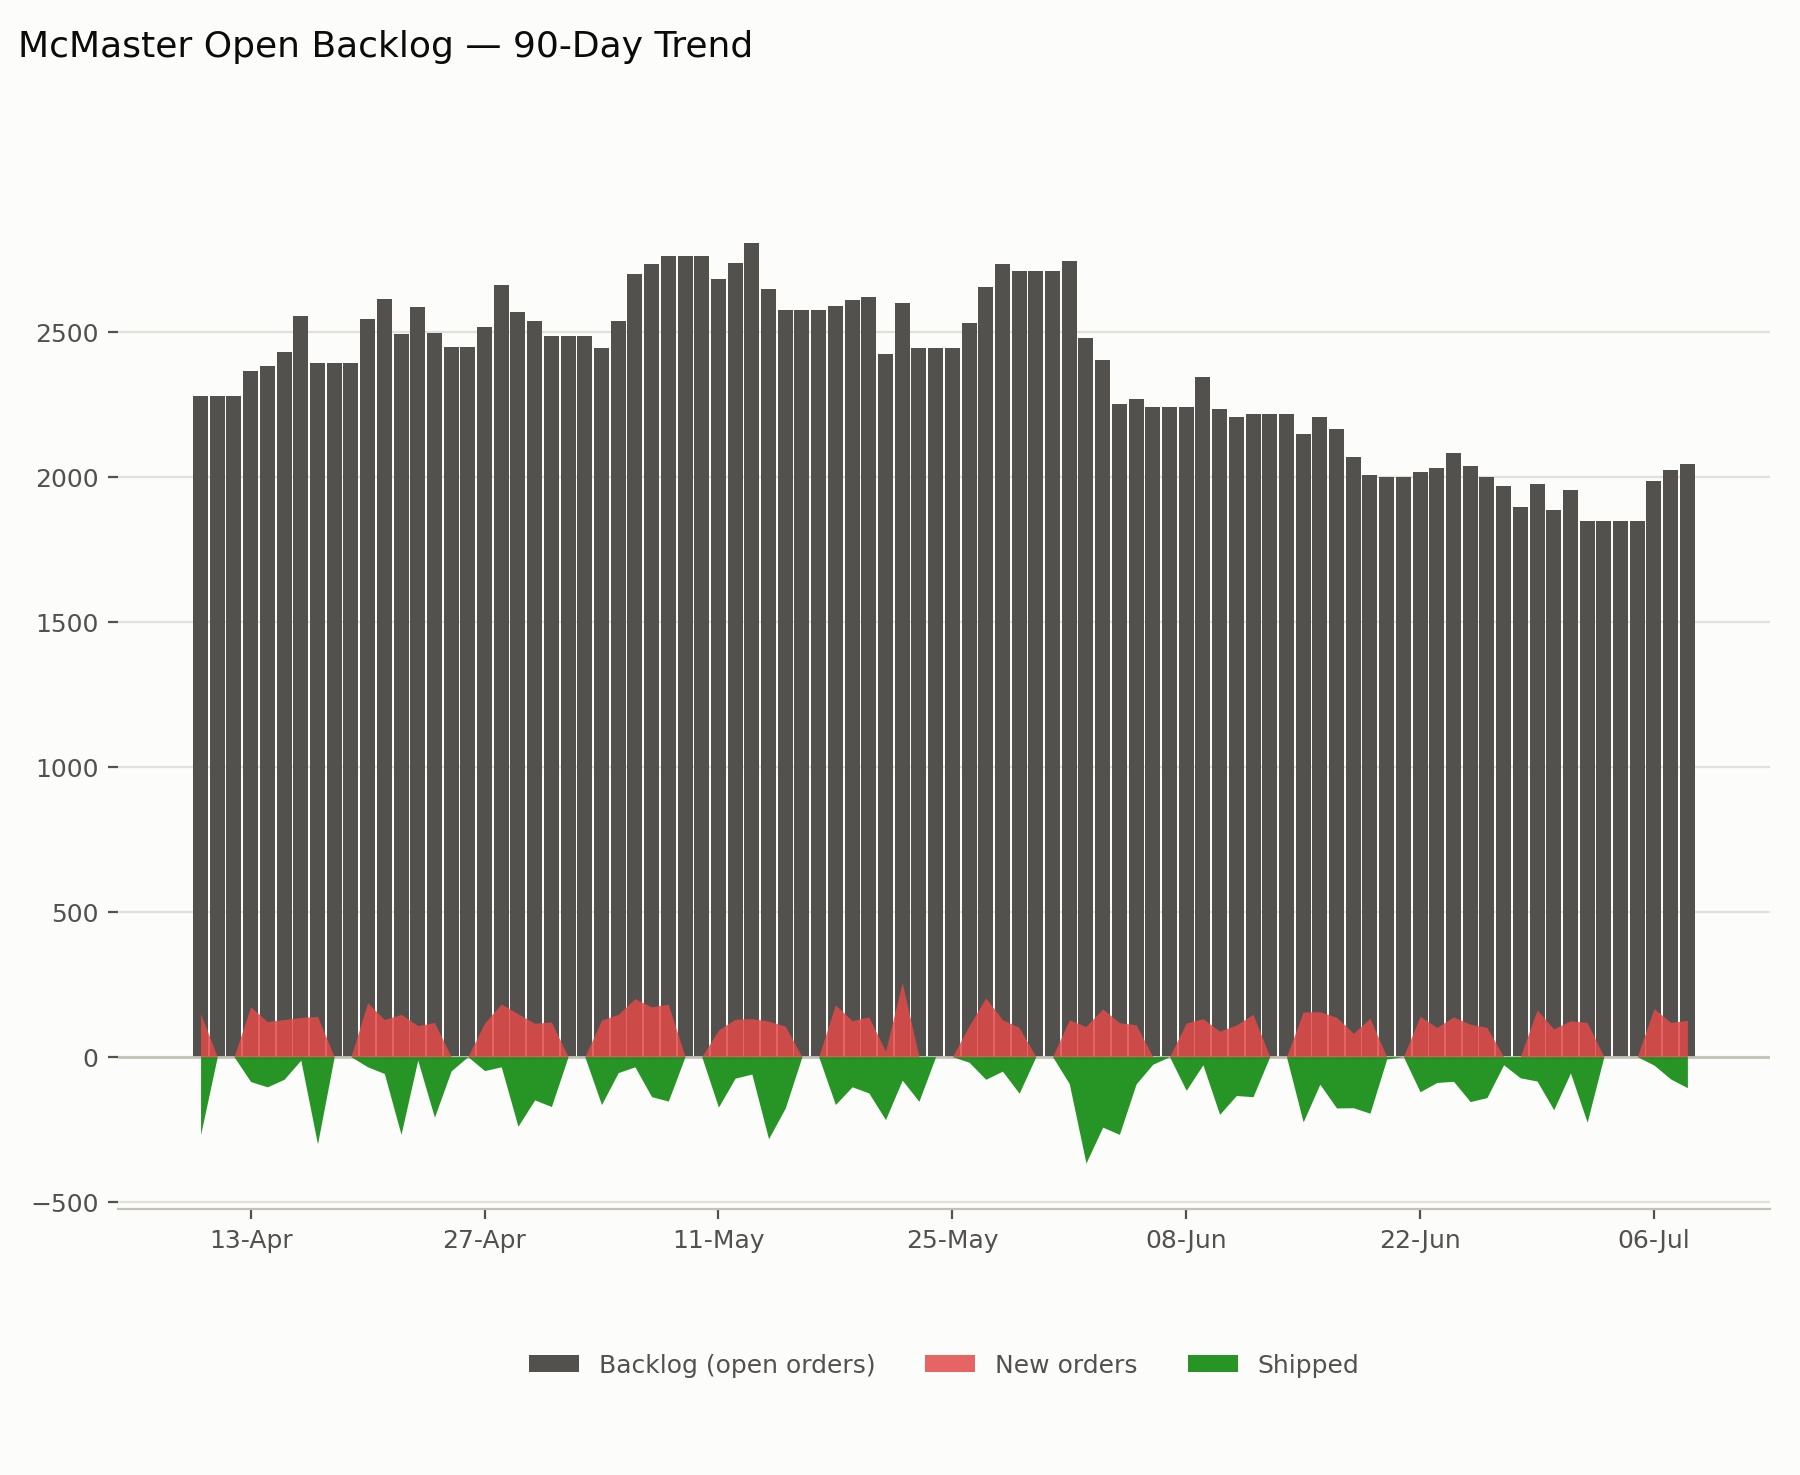
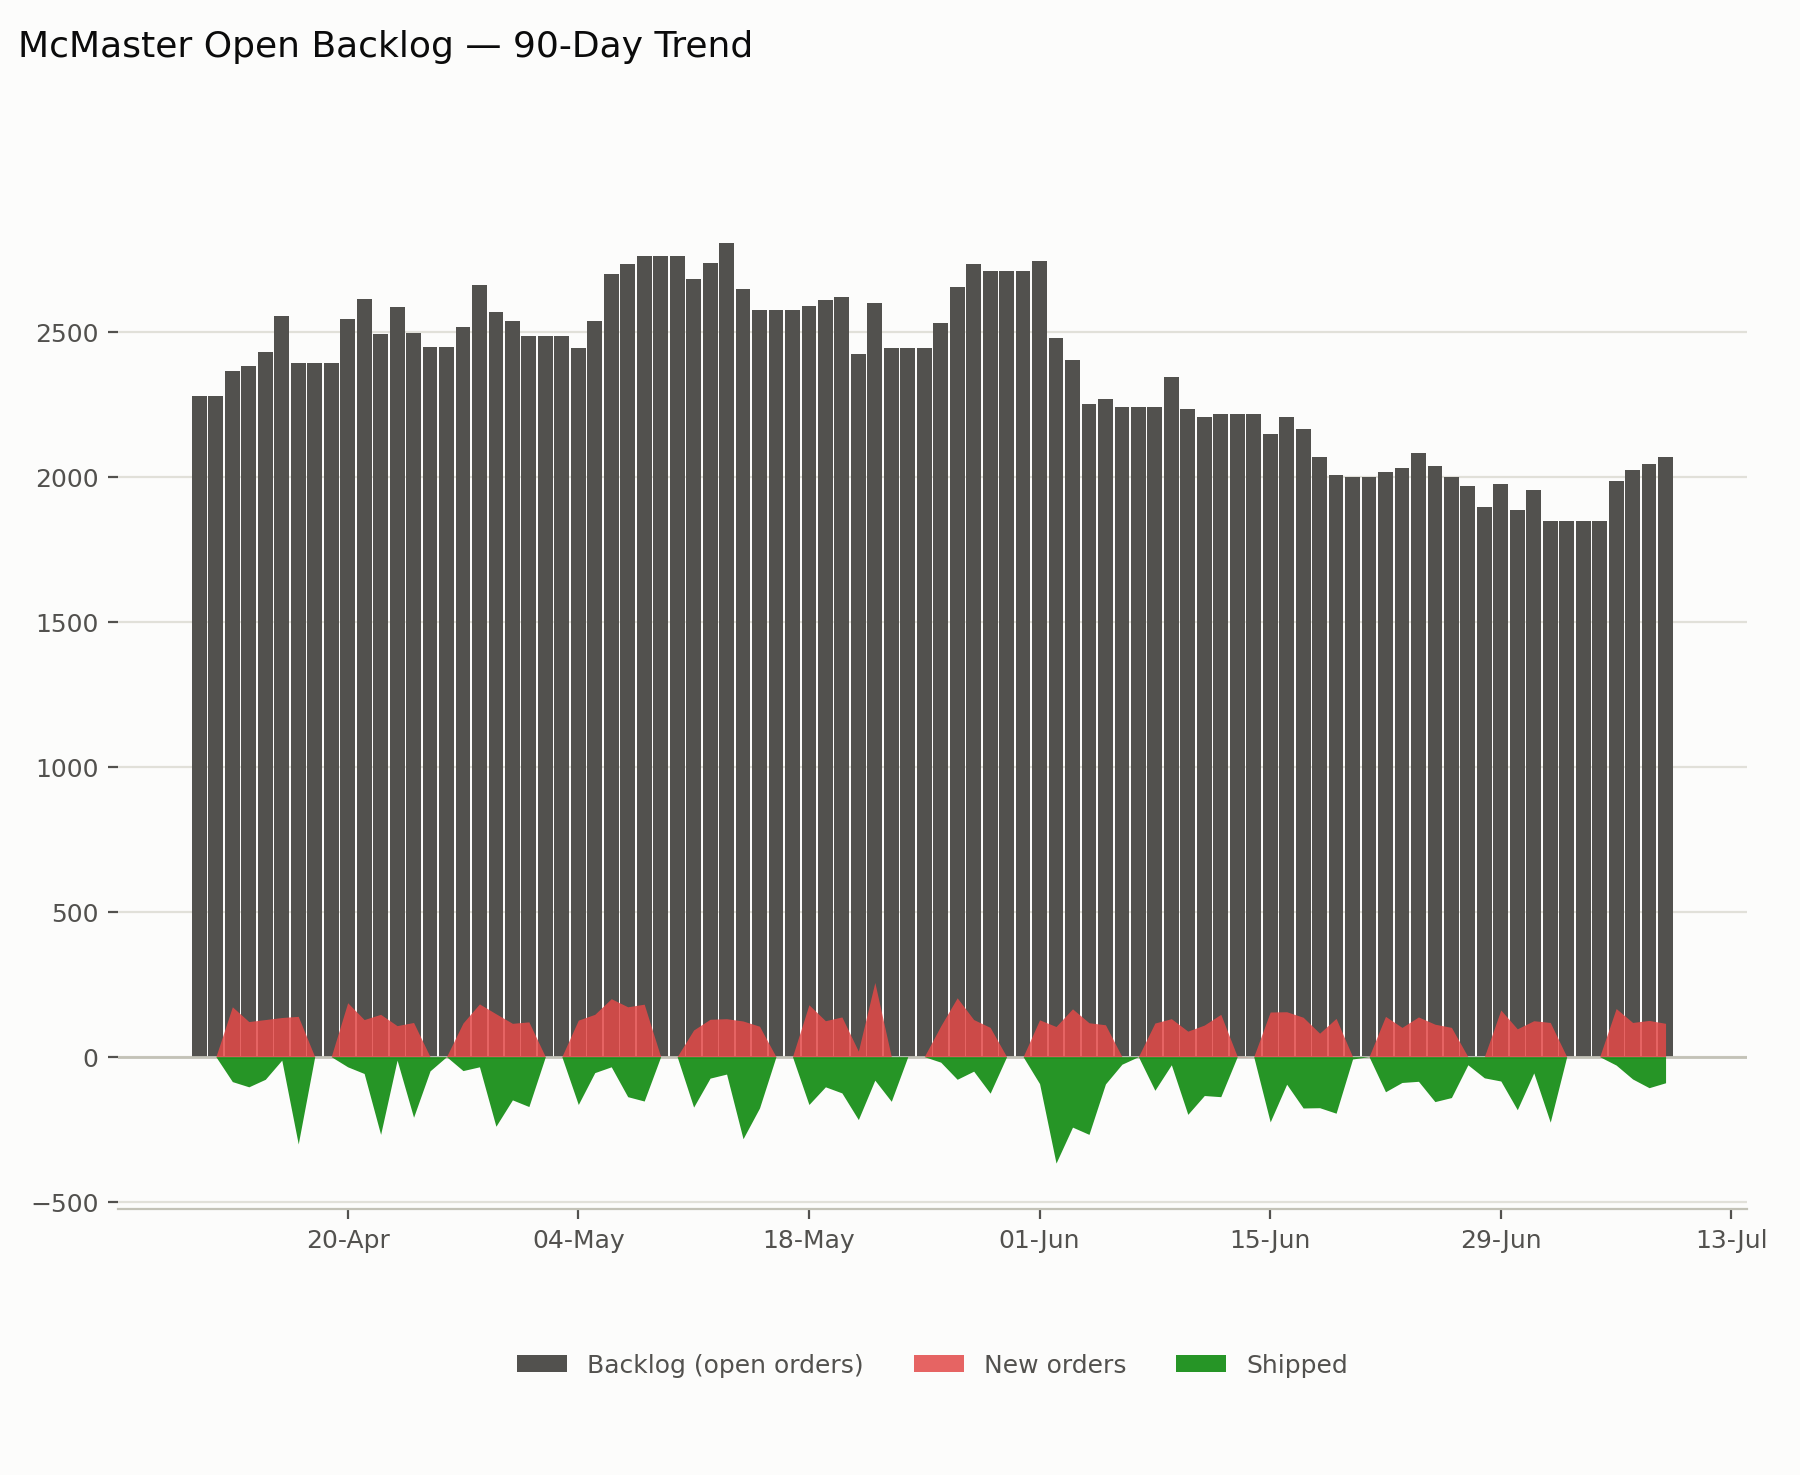
commit

diff --git a/COMMANDS.md b/COMMANDS.md
@@ -87,7 +87,7 @@ No arguments — always reflects the current state of the underlying marts.
 ## McMaster — Email
 
 ```
-python run.py mcmaster-email [show|send]
+python run.py mcmaster-email show [show|send]
 ```
 
 Sends (or previews) the daily McMaster backlog email — SharePoint link at the top,